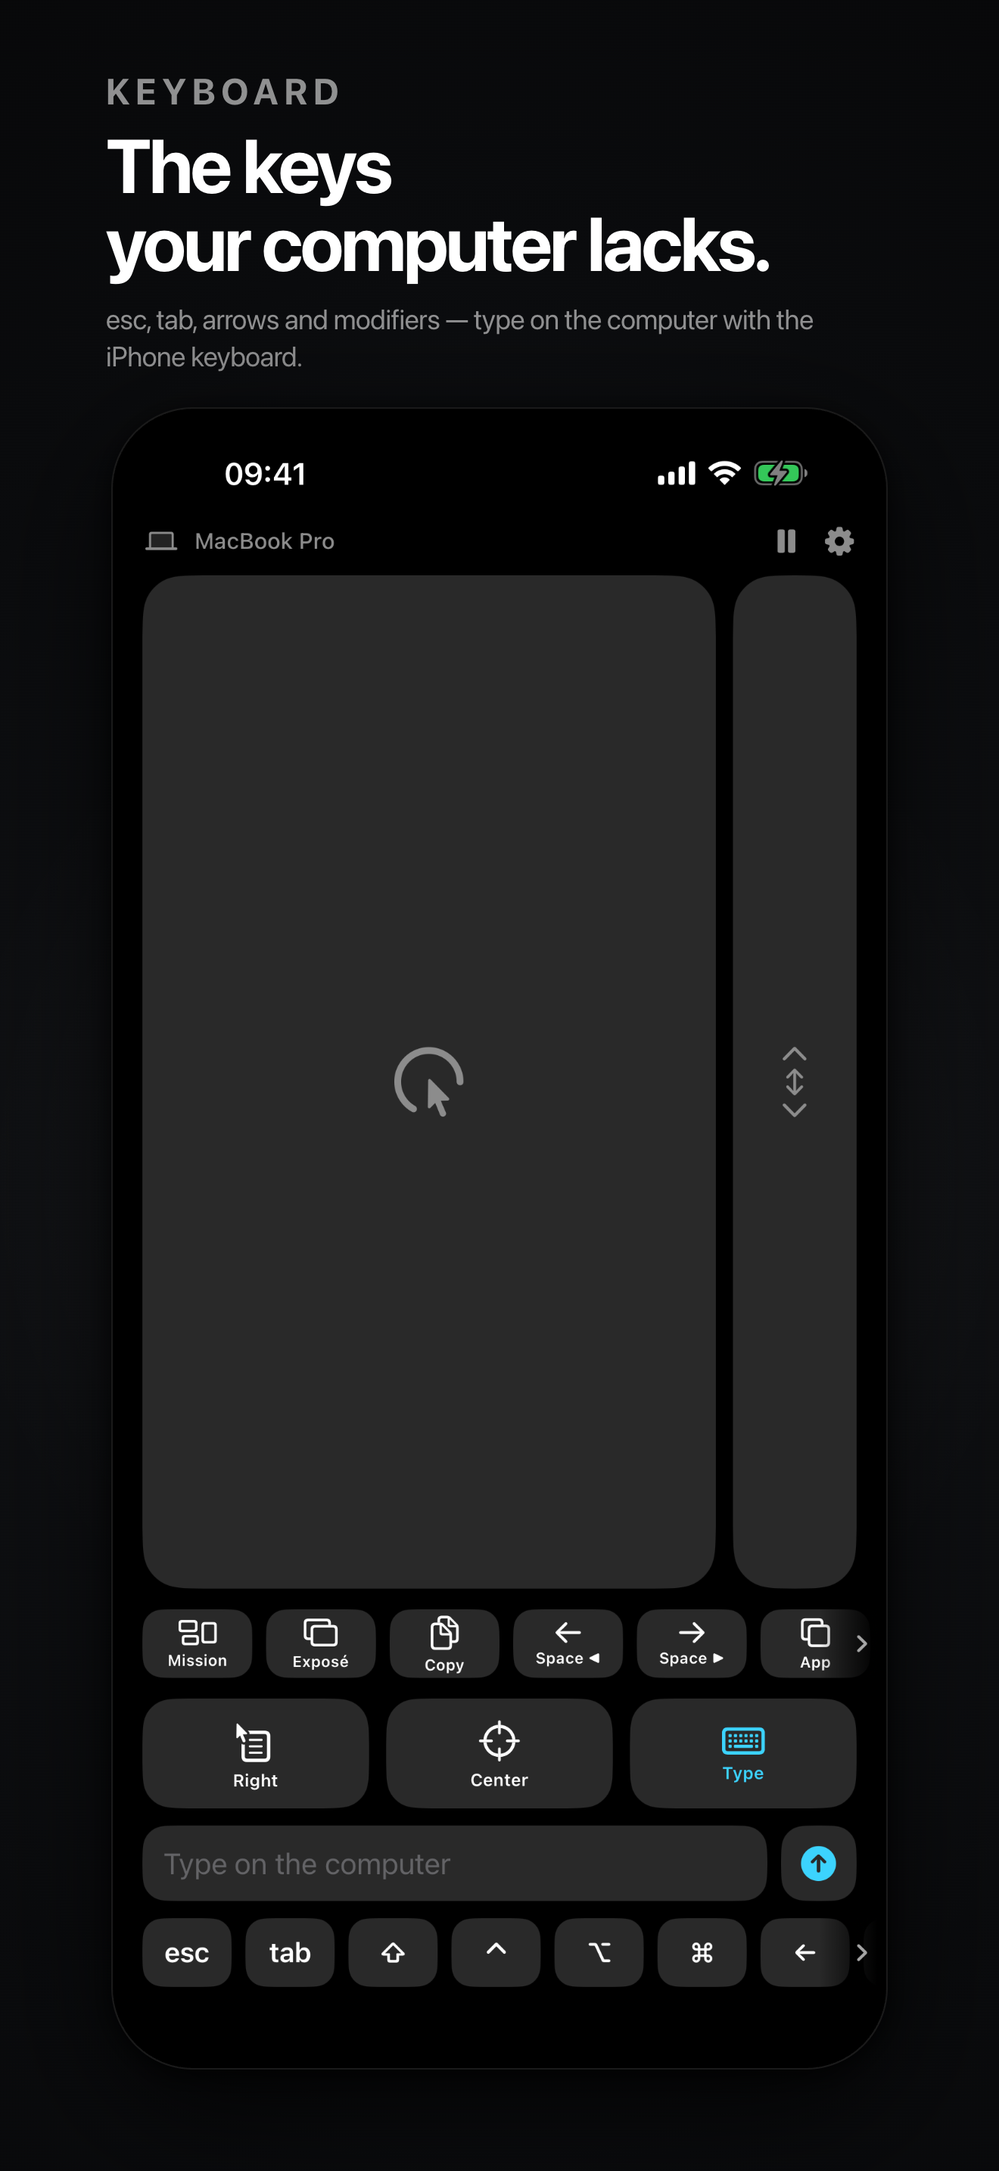
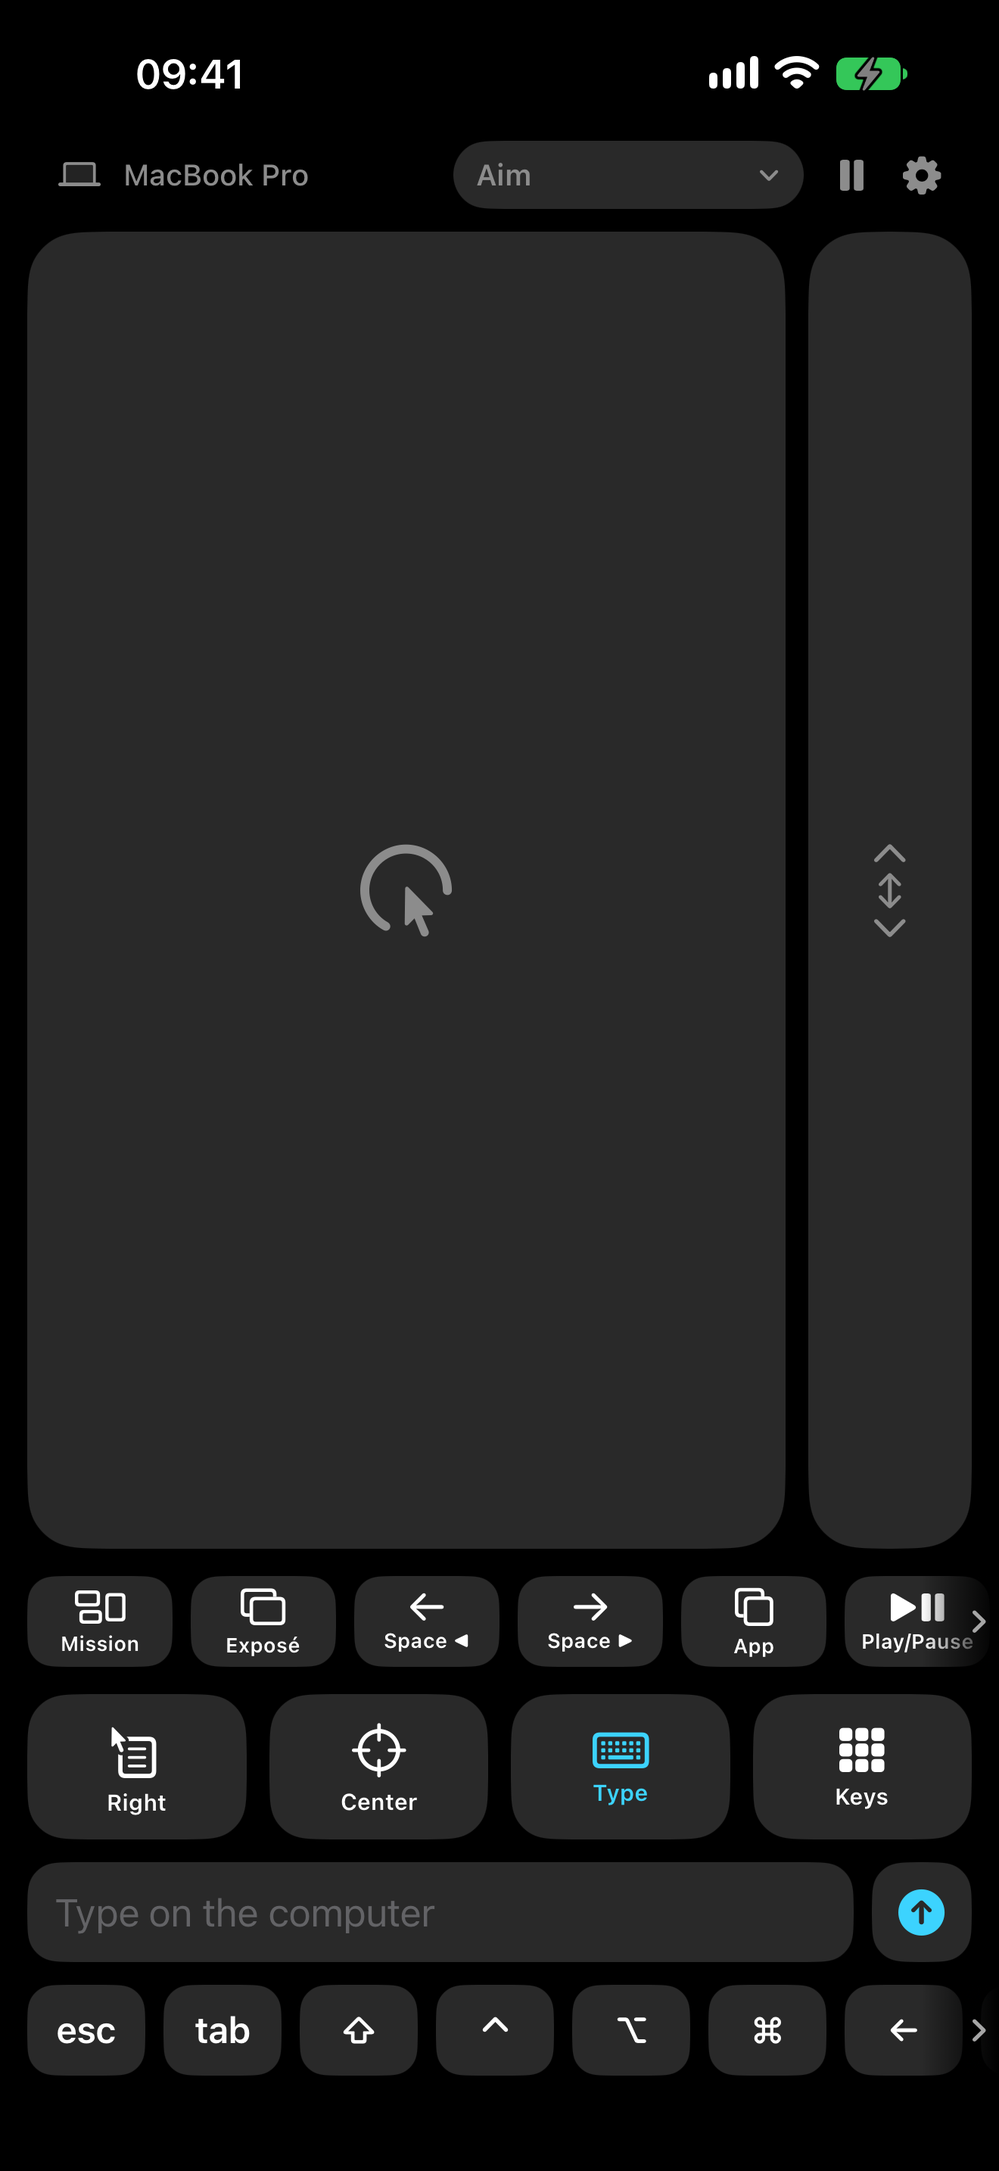
Add Duo, presets and automatic presets

diff --git a/index.html b/index.html
@@ -4,10 +4,10 @@
 <meta charset="utf-8">
 <meta name="viewport" content="width=device-width, initial-scale=1">
 <title>Air Pointer — your iPhone, as a pointer for Mac and PC</title>
-<meta name="description" content="Turn your iPhone into a pointer for your Mac or PC. Point, click, scroll and type over Bluetooth. No account, no cloud, no tracking.">
+<meta name="description" content="Turn your iPhone or iPhone Duo into a pointer for your Mac or PC. Point, click, scroll and type over Bluetooth, with a preset of shortcuts for every app. No account, no cloud, no tracking.">
 <meta name="theme-color" content="#000000">
 <meta property="og:title" content="Air Pointer — your iPhone, as a pointer">
-<meta property="og:description" content="Point, click, scroll and type on your computer from your iPhone. Direct over Bluetooth. No account, no cloud, no tracking.">
+<meta property="og:description" content="Point, click, scroll and type on your computer from your iPhone or iPhone Duo. A preset of shortcuts for every app, direct over Bluetooth. No account, no cloud, no tracking.">
 <meta property="og:type" content="website">
 <meta property="og:url" content="https://airpointer.michelevettone.com/">
 <meta property="og:image" content="https://airpointer.michelevettone.com/icon-512.png">
@@ -15,7 +15,7 @@
 <link rel="icon" type="image/png" href="/favicon-dark.png" media="(prefers-color-scheme: dark)">
 <link rel="icon" type="image/png" href="/favicon-light.png" media="(prefers-color-scheme: light)">
 <link rel="apple-touch-icon" href="/apple-touch-icon.png">
-<link rel="stylesheet" href="style.css?v=20261112b">
+<link rel="stylesheet" href="style.css?v=20261117a">
 </head>
 <body>
 <a class="skip" href="#main">Skip to content</a>
@@ -28,6 +28,7 @@
     </a>
     <nav class="nav-links" aria-label="Main">
       <a href="#modes">Modes</a>
+      <a href="#presets">Presets</a>
       <a href="#why">Why Air Pointer</a>
       <a href="/support">Support</a>
     </nav>
@@ -39,33 +40,33 @@
 
   <section class="hero">
     <div class="shell hero-copy">
-      <p class="eyebrow"><span class="dot"></span>iPhone · Mac · Windows</p>
+      <p class="eyebrow"><span class="dot"></span>iPhone &amp; Duo · Mac · Windows</p>
       <h1>Your iPhone.<br><span class="grad">Your new pointer.</span></h1>
-      <p class="lede">Point it at the screen and the cursor follows. Tap to click, two fingers to scroll, type on the keyboard in your hand — directly to your Mac or PC over Bluetooth.</p>
+      <p class="lede">Point it at the screen and the cursor follows. Tap to click, two fingers to scroll, type on the keyboard in your hand — or half-fold the Duo into keys and trackpad. Direct to your Mac or PC over Bluetooth, with a preset of shortcuts for every app.</p>
       <div class="cta">
         <a class="store-badge" href="https://apps.apple.com/app/id6833520222" target="_blank" rel="noopener">
           <img src="assets/app-store.svg" alt="Download on the App Store" height="52">
         </a>
       </div>
       <p class="cta-alt">Free companion for <a href="https://github.com/michelevettone/airpointer-download/releases/latest/download/AirPointerReceiver.zip">Mac</a> or <a href="https://apps.microsoft.com/detail/9pgg8g8kqlkd" target="_blank" rel="noopener">Windows</a>.</p>
-      <p class="fine">iPhone with iOS 17+ · macOS 14+ · Windows 10/11</p>
+      <p class="fine">iPhone with iOS 17+ · iPhone Duo · macOS 14+ · Windows 10/11</p>
     </div>
 
     <div class="stage">
       <div class="glow" aria-hidden="true"></div>
       <figure class="device left">
         <span class="device-float">
-          <img src="assets/trackpad.png?v=20261112b" width="1320" height="2868" alt="Trackpad mode with Left and Right buttons" loading="lazy" decoding="async">
+          <img src="assets/trackpad.png?v=20261117a" width="1320" height="2868" alt="Trackpad mode with Left and Right buttons" loading="lazy" decoding="async">
         </span>
       </figure>
       <figure class="device main">
         <span class="device-float">
-          <img src="assets/aim.png?v=20261112b" width="1320" height="2868" alt="Aim mode: pointing the iPhone to move the cursor" fetchpriority="high" decoding="async">
+          <img src="assets/aim.png?v=20261117a" width="1320" height="2868" alt="Aim mode: pointing the iPhone to move the cursor" fetchpriority="high" decoding="async">
         </span>
       </figure>
       <figure class="device right">
         <span class="device-float">
-          <img src="assets/present.png?v=20261112b" width="1320" height="2868" alt="Present mode with Back, Next, Black, Center and Esc" loading="lazy" decoding="async">
+          <img src="assets/present.png?v=20261117a" width="1320" height="2868" alt="Present mode with Back, Next, Black, Center and Esc" loading="lazy" decoding="async">
         </span>
       </figure>
     </div>
@@ -81,7 +82,7 @@
       <header class="section-head reveal">
         <p class="eyebrow">Four modes</p>
         <h2>One hand. Every move.</h2>
-        <p class="sub">Switch modes without leaving the phone. Aim, use it as a trackpad, type on the computer, or run the slides.</p>
+        <p class="sub">Switch modes from the header without leaving the phone. Aim, use it as a trackpad, type on the computer, or run the slides.</p>
       </header>
 
       <div class="modes">
@@ -109,7 +110,7 @@
               </ul>
             </div>
             <figure class="panel-art">
-              <img src="assets/aim.png?v=20261112b" width="1320" height="2868" alt="" loading="lazy" decoding="async">
+              <img src="assets/aim.png?v=20261117a" width="1320" height="2868" alt="" loading="lazy" decoding="async">
             </figure>
           </article>
 
@@ -125,7 +126,7 @@
               </ul>
             </div>
             <figure class="panel-art">
-              <img src="assets/trackpad.png?v=20261112b" width="1320" height="2868" alt="" loading="lazy" decoding="async">
+              <img src="assets/trackpad.png?v=20261117a" width="1320" height="2868" alt="" loading="lazy" decoding="async">
             </figure>
           </article>
 
@@ -141,7 +142,7 @@
               </ul>
             </div>
             <figure class="panel-art">
-              <img src="assets/keyboard.png?v=20261112b" width="1320" height="2868" alt="" loading="lazy" decoding="async">
+              <img src="assets/keyboard.png?v=20261117a" width="1320" height="2868" alt="" loading="lazy" decoding="async">
             </figure>
           </article>
 
@@ -157,11 +158,31 @@
               </ul>
             </div>
             <figure class="panel-art">
-              <img src="assets/present.png?v=20261112b" width="1320" height="2868" alt="" loading="lazy" decoding="async">
+              <img src="assets/present.png?v=20261117a" width="1320" height="2868" alt="" loading="lazy" decoding="async">
             </figure>
           </article>
         </div>
       </div>
+    </div>
+  </section>
+
+  <section class="presets" id="presets">
+    <div class="shell presets-inner">
+      <div class="presets-copy reveal">
+        <p class="eyebrow">Presets &amp; pages</p>
+        <h2>The right keys,<br>before you ask.</h2>
+        <p class="sub">Keep a named set of keys for each app. Reorder, hide and add shortcuts once; switch presets from the header, or let automatic presets follow the app on your computer.</p>
+        <p class="sub">When the pad fills, swipe to the next page. On iPhone Duo, half-fold it into keys and trackpad, or turn it flat for two columns.</p>
+        <ul class="ticks">
+          <li>A preset for each app</li>
+          <li>Automatic switching, optional</li>
+          <li>Pages when the pad is full</li>
+          <li>Duo split and landscape layouts</li>
+        </ul>
+      </div>
+      <figure class="presets-art reveal">
+        <img src="assets/keys.png?v=20261117a" width="1320" height="2868" alt="Keys pad with a Code preset and page dots" loading="lazy" decoding="async">
+      </figure>
     </div>
   </section>
 
@@ -203,7 +224,7 @@
             <svg width="22" height="22" viewBox="0 0 24 24" fill="none" stroke="currentColor" stroke-width="1.5" stroke-linecap="round"><rect x="2.5" y="7" width="19" height="11" rx="2"/><path d="M6 11h1M9.5 11h1M13 11h1M16.5 11h1M6 14.5h12"/></svg>
           </span>
           <h3>Your keys, your way</h3>
-          <p>Reorder the key strip, hide the keys you never use, and add shortcuts captured from your computer, each with its own icon.</p>
+          <p>Reorder the strip, switch off the keys you never use, and keep a named preset for each app. The pad paginates when it fills up; automatic presets can follow the app on your computer.</p>
         </article>
 
         <article class="card reveal">
@@ -211,7 +232,7 @@
             <svg width="22" height="22" viewBox="0 0 24 24" fill="none" stroke="currentColor" stroke-width="1.5" stroke-linecap="round" stroke-linejoin="round"><rect x="2.5" y="4" width="14" height="10" rx="1.5"/><path d="M19.5 8.5H21a1 1 0 0 1 1 1v8a1 1 0 0 1-1 1H8a1 1 0 0 1-1-1v-1.5"/></svg>
           </span>
           <h3>Every computer, one phone</h3>
-          <p>Pair your Macs and PCs, rename them, and pick the one to drive. Each keeps its own key layout.</p>
+          <p>Pair your Macs and PCs, rename them, and pick the one to drive. Each keeps its own presets and key layout.</p>
         </article>
       </div>
     </div>
@@ -250,7 +271,7 @@
           </span>
           <p class="os-name">iOS 17 or later</p>
           <h3>Air Pointer for iPhone</h3>
-          <p class="os-copy">Aim, trackpad, keyboard and present modes.</p>
+          <p class="os-copy">Aim, trackpad, keyboard and present modes — with presets and pages.</p>
           <a class="store-badge" href="https://apps.apple.com/app/id6833520222" target="_blank" rel="noopener">
           <img src="assets/app-store.svg" alt="Download on the App Store" height="52">
         </a>
@@ -295,6 +316,7 @@
     <nav aria-label="Product">
       <p class="footer-title">Product</p>
       <a href="#modes">Modes</a>
+      <a href="#presets">Presets</a>
       <a href="#why">Why Air Pointer</a>
       <a href="#download">Download</a>
       <a href="https://apps.apple.com/app/id6833520222" target="_blank" rel="noopener">App Store</a>

diff --git a/support.html b/support.html
@@ -12,7 +12,7 @@
 <link rel="icon" type="image/png" href="/favicon-dark.png" media="(prefers-color-scheme: dark)">
 <link rel="icon" type="image/png" href="/favicon-light.png" media="(prefers-color-scheme: light)">
 <link rel="apple-touch-icon" href="/apple-touch-icon.png">
-<link rel="stylesheet" href="style.css?v=20261112b">
+<link rel="stylesheet" href="style.css?v=20261117a">
 </head>
 <body>
 <a class="skip" href="#main">Skip to content</a>
@@ -25,6 +25,7 @@
     </a>
     <nav class="nav-links" aria-label="Main">
       <a href="/#modes">Modes</a>
+      <a href="/#presets">Presets</a>
       <a href="/#why">Why Air Pointer</a>
       <a href="/support">Support</a>
     </nav>
@@ -45,10 +46,22 @@
   <p>The Mac app lives in the menu bar (cursor icon); the Windows app in the tray. On a Mac with a notch, the island shows the same controls.</p>
 
   <h2>Names and several computers</h2>
-  <p>Under <strong>Settings › This iPhone</strong> you can choose the name the computer shows for this phone. Each computer keeps its own key order, hidden keys and custom shortcuts; switching computer in <strong>Computers</strong> switches its layout.</p>
+  <p>Under <strong>Settings › This iPhone</strong> you can choose the name the computer shows for this phone. Each computer keeps its own presets, key order, hidden keys and custom shortcuts; switching computer in <strong>Computers</strong> switches its presets too.</p>
 
   <h2>Keys and shortcuts</h2>
-  <p><strong>Settings › Keys</strong> reorders the key strip, hides the ones you don't use and adds your own: press the shortcut on the computer, then give it a name and an icon. Custom keys belong to the computer they were captured on.</p>
+  <p><strong>Settings › Keys</strong> reorders the active preset, hides the keys you don't use and adds your own: press the shortcut on the computer, then give it a name and an icon. Custom keys belong to the computer they were captured on.</p>
+
+  <h2>Presets and pages</h2>
+  <p><strong>Settings › Keys</strong> keeps named presets for each computer. Each preset has its own order and hidden keys. Pick one from the presets menu in the header of the keys screens; add, rename or delete them in Settings. An app can be linked to one preset at a time.</p>
+  <p>When the keys pad is full, swipe left or right to move between pages. The dots below show the current page.</p>
+
+  <h2>Automatic presets</h2>
+  <p>In <strong>Settings › Keys</strong>, turn on <strong>Automatic presets</strong>. Open a preset’s <strong>…</strong> menu and choose <strong>Link &lt;app&gt;</strong> for the app currently in the foreground; do it once for each app you use. When you switch apps on the computer, the phone switches to the linked preset.</p>
+  <p>The computer reports the app in the foreground only while the option is on. It needs the 1.1.13 companion or later on macOS, or the current Microsoft Store version. With an older companion the option waits without affecting the rest of the app.</p>
+  <p>Unlinked apps leave the current preset in place. Turn the option off to stop the computer reporting the app.</p>
+
+  <h2>iPhone Duo</h2>
+  <p>Half-fold the Duo like a laptop: the shortcuts sit on the top panel and the trackpad on the bottom. Unfolded flat in landscape, the keys and trackpad stand side by side; use the swap button to choose the side. The header mode switch changes Aim, Trackpad and Present everywhere; it is not shown on the full-screen keys pad.</p>
 
   <h2>Windows</h2>
   <p>Install Air Pointer from the <a href="https://apps.microsoft.com/detail/9pgg8g8kqlkd" target="_blank" rel="noopener">Microsoft Store</a> and open it. Windows only lets an app host the Bluetooth server when it is installed as a package, so use the Store version.</p>
@@ -88,6 +101,7 @@
     <nav aria-label="Product">
       <p class="footer-title">Product</p>
       <a href="/#modes">Modes</a>
+      <a href="/#presets">Presets</a>
       <a href="/#why">Why Air Pointer</a>
       <a href="/#download">Download</a>
       <a href="https://apps.apple.com/app/id6833520222" target="_blank" rel="noopener">App Store</a>

diff --git a/privacy.html b/privacy.html
@@ -12,7 +12,7 @@
 <link rel="icon" type="image/png" href="/favicon-dark.png" media="(prefers-color-scheme: dark)">
 <link rel="icon" type="image/png" href="/favicon-light.png" media="(prefers-color-scheme: light)">
 <link rel="apple-touch-icon" href="/apple-touch-icon.png">
-<link rel="stylesheet" href="style.css?v=20261112b">
+<link rel="stylesheet" href="style.css?v=20261117a">
 </head>
 <body>
 <a class="skip" href="#main">Skip to content</a>
@@ -25,6 +25,7 @@
     </a>
     <nav class="nav-links" aria-label="Main">
       <a href="/#modes">Modes</a>
+      <a href="/#presets">Presets</a>
       <a href="/#why">Why Air Pointer</a>
       <a href="/support">Support</a>
     </nav>
@@ -34,7 +35,7 @@
 
 <main class="shell doc" id="main">
   <h1>Privacy Policy</h1>
-  <p class="note">Last updated: 11 November 2026</p>
+  <p class="note">Last updated: 17 November 2026</p>
 
   <p><strong>Air Pointer does not collect, store, or transmit any personal data.</strong></p>
 
@@ -42,6 +43,7 @@
     <li><strong>No accounts.</strong> The app has no sign-up, login, or profile.</li>
     <li><strong>No analytics or ads.</strong> No tracking SDKs, no advertising identifiers, no third-party analytics.</li>
     <li><strong>Everything stays on your devices.</strong> Settings (paired computers, name, sensitivity, keys) are stored locally on the iPhone. Pointer, click, scroll and keyboard commands travel directly to the paired computer over Bluetooth; they never pass through a server.</li>
+    <li><strong>Automatic presets (optional).</strong> When you turn this on, the computer sends the name and identifier of the app in the foreground to the paired iPhone over Bluetooth, only to choose the linked preset. If you link an app, its name is saved with that preset on the iPhone. The app name never goes to a server, and turning the option off stops the computer reporting it.</li>
     <li><strong>Bluetooth.</strong> The permission is used only to find and connect to the computer running the companion app. The name you set under “This iPhone” is sent to that computer so you recognise the phone there.</li>
     <li><strong>Camera.</strong> The permission is used only to scan the pairing QR code shown on the computer. The camera frames are processed on the device to read the code; nothing is stored or sent.</li>
     <li><strong>Secure pairing.</strong> The one-time secret from the QR code is kept in the iOS Keychain and used to encrypt the link between the phone and that computer. It is not sent anywhere else.</li>
@@ -61,6 +63,7 @@
     <nav aria-label="Product">
       <p class="footer-title">Product</p>
       <a href="/#modes">Modes</a>
+      <a href="/#presets">Presets</a>
       <a href="/#why">Why Air Pointer</a>
       <a href="/#download">Download</a>
       <a href="https://apps.apple.com/app/id6833520222" target="_blank" rel="noopener">App Store</a>

diff --git a/style.css b/style.css
@@ -534,6 +534,51 @@ a { color: inherit; }
   to { opacity: 1; transform: none; }
 }
 
+/* ---------- Presets ---------- */
+
+.presets {
+  padding: clamp(80px, 10vw, 130px) 0;
+  border-top: 1px solid var(--line-soft);
+}
+.presets-inner {
+  display: grid;
+  grid-template-columns: 1.05fr .95fr;
+  gap: clamp(36px, 6vw, 84px);
+  align-items: center;
+}
+.presets-copy { max-width: 560px; }
+.presets-copy h2 {
+  font-size: clamp(34px, 5.2vw, 58px);
+  margin-bottom: 18px;
+}
+.presets-copy .sub {
+  margin: 0 0 14px;
+  max-width: 38em;
+  color: var(--muted);
+  font-size: clamp(16px, 1.5vw, 19px);
+}
+.presets-art {
+  margin: 0;
+  justify-self: center;
+  width: min(360px, 80%);
+  padding: 10px;
+  border-radius: 46px;
+  border: 1px solid rgba(255, 255, 255, .14);
+  background: #0c0c0e;
+  box-shadow: 0 50px 150px rgba(0, 0, 0, .8), 0 8px 30px rgba(0, 0, 0, .65);
+}
+.presets-art img {
+  display: block;
+  width: 100%;
+  height: auto;
+  border-radius: 38px;
+}
+
+@media (max-width: 820px) {
+  .presets-inner { grid-template-columns: 1fr; gap: 40px; }
+  .presets-art { width: min(300px, 80%); }
+}
+
 /* ---------- Why / bento ---------- */
 
 .why { padding: clamp(80px, 10vw, 130px) 0; }

diff --git a/BRIEF.md b/BRIEF.md
@@ -11,10 +11,10 @@ privacy policy, the support page.
 
 ## Current release state
 
-The iPhone app is in public beta on TestFlight: <https://testflight.apple.com/join/q9EmkjqU>
-
-The App Store listing (`id 6833520222`, <https://apps.apple.com/app/id6833520222>) is not live yet.
-The free Mac companion is on GitHub Releases and the Windows one on the Microsoft Store; neither is distributed through TestFlight.
+The App Store listing (`id 6833520222`, <https://apps.apple.com/app/id6833520222>) is live with 1.0.2;
+1.0.3 (Duo layouts, key pages, presets and automatic presets) is in review. The free Mac companion is
+on GitHub Releases and the Windows one on the Microsoft Store; both are updated to 1.1.13 for
+automatic presets. Neither receiver is distributed through TestFlight.
 
 ## Audience
 
@@ -39,15 +39,16 @@ Not a developer audience. Not a place for feature lists longer than a screen.
 
 - App icon: `iPhone/…/AppIcon.png` (1024², no alpha) — in this repo as `icon-512.png`
 - Menu bar mark: transparent glyph, `favicon-light.png` / `favicon-dark.png`
-- Screenshots: `AppStore/screenshots/iphone/<locale>/` in `michelevettone/PhonePointer`,
-  1320×2868, six per locale
-- Site screenshots: `assets/aim.png`, `trackpad.png`, `keyboard.png`, `present.png` — four of the six
+- Screenshots: `AppStore/screenshots/iphone/<locale>/` and `AppStore/screenshots/duo/<locale>/`
+  in `michelevettone/airpointer`, 1320×2868 (iPhone) and 2007×2853 (Duo), seven/nine per locale
+- Site screenshots: `assets/aim.png`, `trackpad.png`, `keyboard.png`, `present.png`, `keys.png` —
+  raw app screens from `AppStore/screens-source/iphone/en/`
 - Demo video: `AppStore/demo.mp4` in the same repo (not used on the site yet)
 
 ## Copy
 
 The source of truth for the English product text is `AppStore/metadata.md` in
-`michelevettone/PhonePointer` (description, keywords, promotional text, review notes). The 13 localized
+`michelevettone/airpointer` (description, keywords, promotional text, review notes). The 13 localized
 listings live in `AppStore/localized/`.
 
 Do not invent claims. Everything the site says must be true of the app: free companion app, Bluetooth
@@ -84,5 +85,5 @@ branches become preview URLs. There is no build step. A manual
 
 ## Current structure
 
-`index.html` (landing), `privacy.html`, `support.html`, `style.css`, favicons, `assets/` with the four
+`index.html` (landing), `privacy.html`, `support.html`, `style.css`, favicons, `assets/` with the five
 screenshots. No JavaScript.
